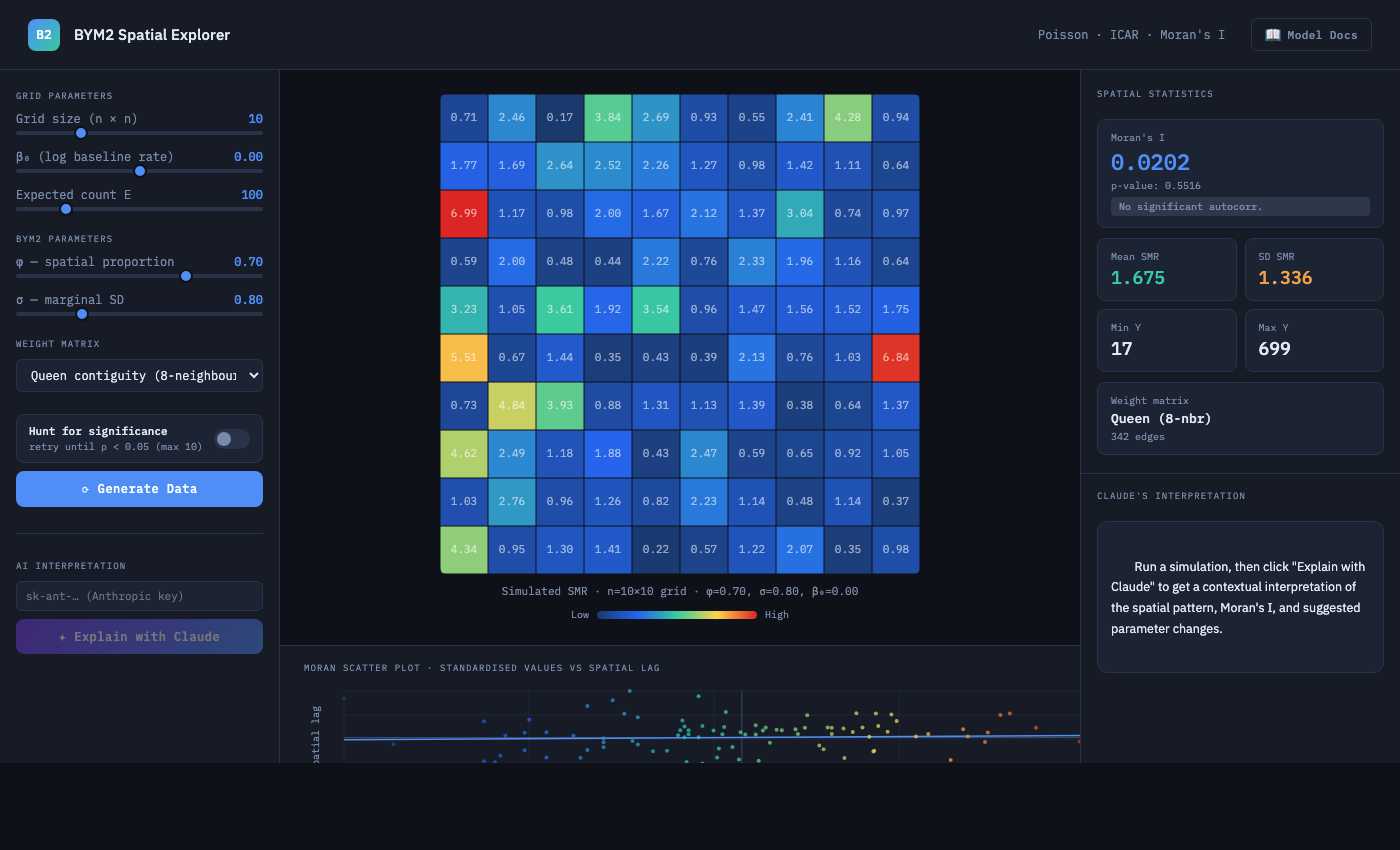
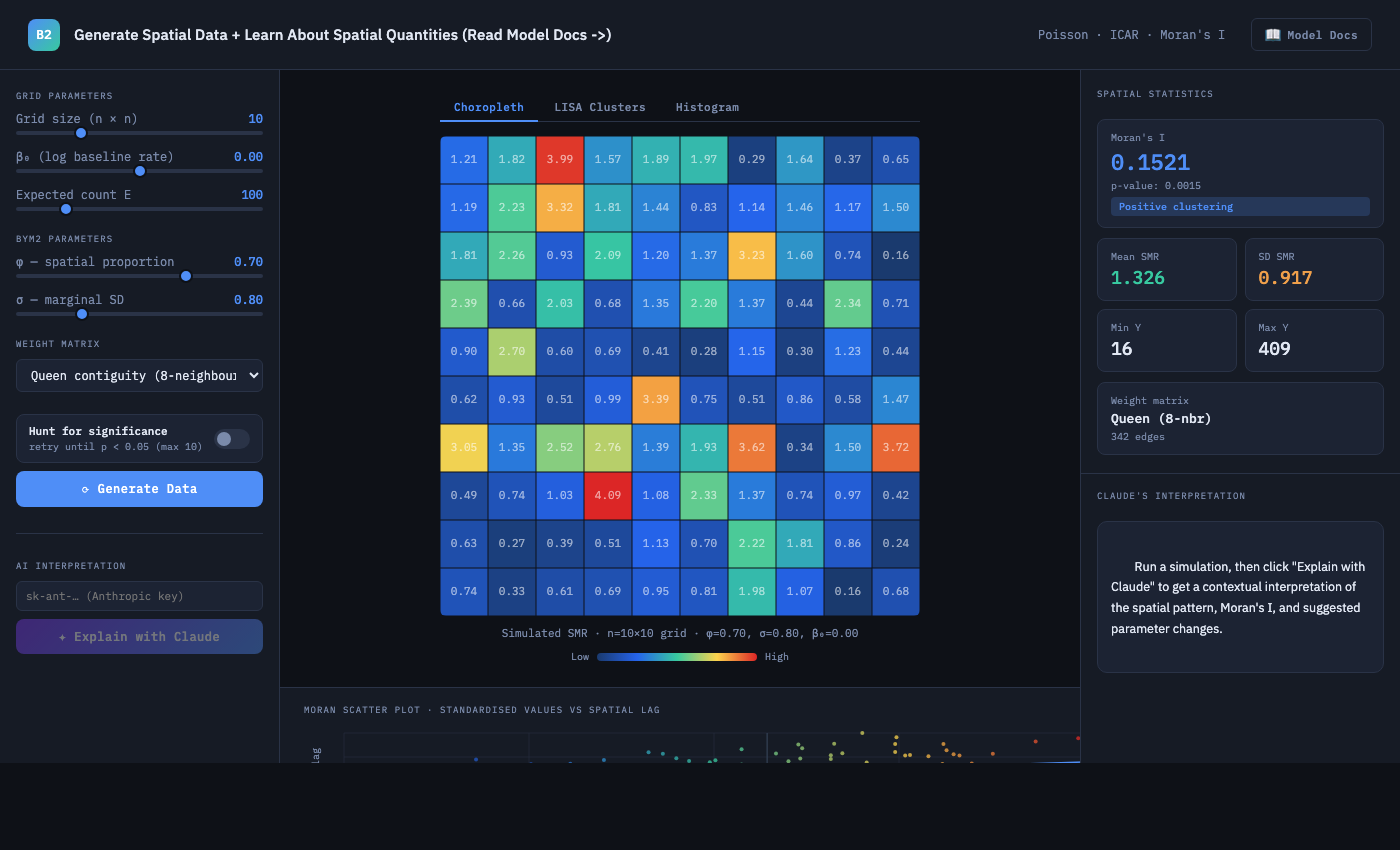
cv changes

diff --git a/cv.md b/cv.md
@@ -5,11 +5,10 @@ permalink: /cv/
 ---
 
 <div class="card">
-  <p class="lead">This is the longer-form academic/professional CV that sits alongside the 1-page <a href="{{ '/resume/' | relative_url }}">resume</a>. Workshop and teaching highlights are on the <a href="{{ '/' | relative_url }}#teaching">home page (Teaching)</a>; project writeups are under <a href="{{ '/' | relative_url }}#projects">Projects</a> on the home page.</p>
+  <p class="lead">This is the primary long-form academic and professional CV. Workshop and teaching highlights are on the <a href="{{ '/' | relative_url }}#teaching">home page (Teaching)</a>, and project writeups are under <a href="{{ '/' | relative_url }}#projects">Projects</a> on the home page.</p>
 </div>
 
 <ul class="inline-links">
-  <li><a href="{{ '/resume/' | relative_url }}">Resume</a></li>
   <li><a href="{{ '/' | relative_url }}#teaching">Teaching</a></li>
   <li><a href="{{ '/' | relative_url }}#projects">Projects</a></li>
 </ul>
@@ -48,11 +47,7 @@ permalink: /cv/
 <div class="cv-entry">
   <div class="cv-entry__title">Graduate Research Assistant (Doctoral Training)</div>
   <div class="cv-entry__meta">Vilcek School of Biomedical Sciences, 2021–Present</div>
-  <ul>
-    <li>Bayesian hierarchical and spatial models to quantify access to services in NYC.</li>
-    <li>HIPAA-compliant GIS pipelines on HPC (Singularity, terminal-based workflows).</li>
-    <li>Patient-preferred pharmacy proximity metrics used to quantify barriers to care.</li>
-  </ul>
+  <p>I develop Bayesian hierarchical and spatial models to quantify barriers to care and service access across NYC neighborhoods. I built HIPAA-compliant geospatial workflows on HPC infrastructure (including Singularity- and terminal-based pipelines) so analyses can be reproduced securely at scale. I also developed patient-preferred pharmacy proximity metrics that are now used to evaluate access gaps and support translational public-health recommendations.</p>
 </div>
 
 ### Icahn School of Medicine at Mount Sinai
@@ -60,37 +55,30 @@ permalink: /cv/
 <div class="cv-entry">
   <div class="cv-entry__title">Biostatistician / Data Scientist (Consulting &amp; Collaborative Research)</div>
   <div class="cv-entry__meta">2020–2026</div>
-  <p>Collaborative biostatistics and applied data science across clinical research, quality improvement, and program evaluation. Work has engaged multiple labs and institutional programs, including the <strong>PAIRED lab</strong>, <strong>Center for Scientific Workforce Excellence and Advancement (CSWEA)</strong>, <strong>Center for Scientific Diversity</strong>, <strong>Center for Biostatistics</strong>, the <strong>Disparities Analytics Task Force</strong>, and the <strong>Graduate School of Biomedical Sciences</strong> (e.g., enrollment analytics).</p>
-  <ul>
-    <li>Supervised master’s-level statisticians on quality improvement and automated quality-metrics reporting (2023–2026).</li>
-    <li>Led autonomic heart rate variability (HRV) analyses and phenotyping supporting first- and second-author publications; developed and maintain the <em>tidyRHRV</em> / <a href="https://github.com/steven-lr/tidyrhrv">tidyrhrv</a> package on CRAN (2021–2025).</li>
-    <li>Built web-scraping and PubMed API tooling for bibliometric reporting to leadership (2023–2024).</li>
-    <li>Telehealth utilization analyses pre/during/post shutdown; stakeholder briefings (2021–2022).</li>
-    <li>COVID Wave 1: geospatial maps and testing vs. positivity analyses to inform allocation decisions (2020).</li>
-  </ul>
+  <p>I provide collaborative biostatistics and applied data science support across clinical research, quality improvement, and workforce/program evaluation projects at Mount Sinai. This work has included teams and institutional initiatives such as the <strong>PAIRED lab</strong>, <strong>CSWEA</strong>, the <strong>Center for Biostatistics</strong>, the <strong>Disparities Analytics Task Force</strong>, and the <strong>Graduate School of Biomedical Sciences</strong>. Across these collaborations, I have supervised master’s-level statisticians, led HRV phenotyping analyses that supported first- and second-author publications, maintained the <em>tidyRHRV</em> / <a href="https://github.com/steven-lr/tidyrhrv">tidyrhrv</a> CRAN package, and delivered operational analytics for telehealth, bibliometrics, and COVID-era geographic allocation decisions.</p>
   <p><strong>Earlier training at Mount Sinai (2018–2020):</strong> Graduate internship and volunteer roles through the Center for Biostatistics—REDCap program evaluation (HSMSE Biomedical Enrichment), discrimination-related outcomes modeling, Google Trends surveillance (Emergency Medicine Health Disparities program), mediation and power for clinical studies, methods simulation work, and the ASA This Is Statistics Data Challenge. (Mentors included Emma Benn, DrPH; Jessica Robinson-Papp, MD, MS; and others.) More detail on the <a href="{{ '/' | relative_url }}#projects">Projects</a> section of the home page.</p>
 </div>
 
-### Other employers and consulting
+### Other consulting
 
 <div class="cv-entry">
   <div class="cv-entry__title">Data Science Consultant</div>
   <div class="cv-entry__meta">Graham Windham, 2023–2025</div>
-  <ul>
-    <li>Leadership dashboards and predictive models for foster care mental health interventions; executive-facing reporting.</li>
-    <li>Secure GIS pipeline for geospatial analytics and reproducible processing to quantify access to high-quality education.</li>
-  </ul>
+  <p>I built leadership dashboards and predictive analytics workflows to support planning and evaluation of foster-care mental health interventions. My deliverables translated statistical findings into executive-facing reporting that could be used in program strategy discussions and operational prioritization. I also designed a secure GIS pipeline for reproducible geospatial analysis to quantify access to high-quality educational opportunities across service areas.</p>
 </div>
 
 <div class="cv-entry">
   <div class="cv-entry__title">Data Science Intern — ML fairness evaluation</div>
   <div class="cv-entry__meta">Nationwide Financial Services, Summer 2021</div>
+  <p>I supported model-audit work focused on fairness and subgroup performance for machine-learning workflows used in financial-services contexts. The internship emphasized rigorous evaluation design, transparent communication of performance disparities, and practical recommendations for model governance. I contributed analysis and documentation that helped frame fairness checks as part of routine model validation rather than a one-time exercise.</p>
 </div>
 
 <div class="cv-entry">
-  <div class="cv-entry__title">Additional short-term roles</div>
+  <div class="cv-entry__title">Other opportunities</div>
   <div class="cv-entry__meta">Selected</div>
-  <p>Memorial Sloan Kettering (Project Manager, Bridge to Biostatistics; Summer 2025); Hampton University (R Workshop Instructor; Summer 2024); UAB (biostatistical consultation, NIS survey-weighted analyses; Fall 2021).</p>
+  <p><strong>Memorial Sloan Kettering (Summer 2025):</strong> Project Manager for Bridge to Biostatistics, supporting program coordination, trainee-facing deliverables, and outcomes tracking.</p>
+  <p><strong>Hampton University (Summer 2024):</strong> R Workshop Instructor, delivering applied training sessions on reproducible analysis workflows and statistical programming foundations.</p>
+  <p><strong>UAB (Fall 2021):</strong> Biostatistical consultant for National Inpatient Sample analyses, including survey-weighted modeling and interpretation for clinical research teams.</p>
 </div>
 
 ## Teaching Summary